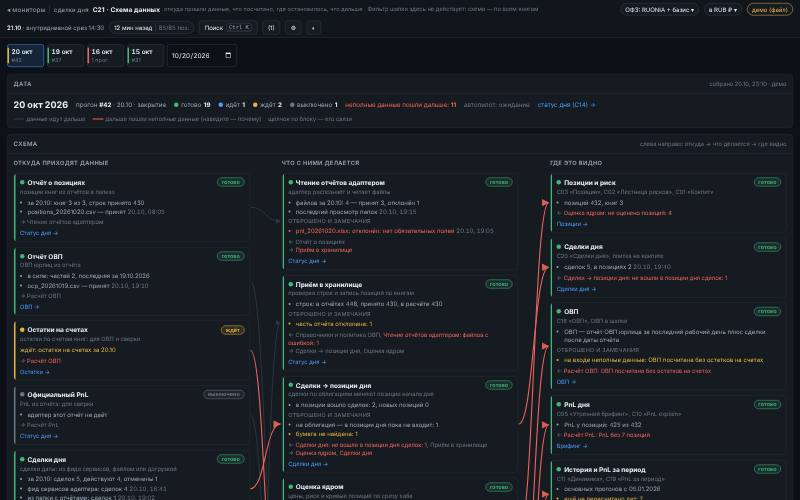
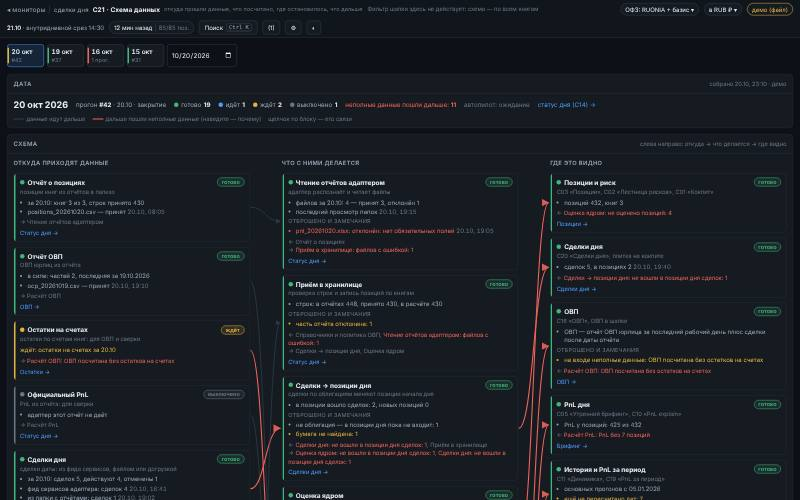
C21: browser tests, an incomplete outgoing link said in words, refresh once a minute (TDM#586)
- tests/js/data_flow_586.pw.test.js (Playwright, synthetic answers): C21 blocks and statuses in words,
  one red arrow per incomplete link, «Где данные неполные», «Что впереди», both themes at 1024 and
  1440 px, one column without arrows and without a horizontal scroll at 390 px; C20 under the header
  filter and ?pos=, source and receipt time; the C01 line asks the summary with the page's date and the
  header's books and links to C20.
- C21: an outgoing link that carried incomplete data says why in the block (read on a narrow window
  without arrows); the screen refreshes once a minute, not every 30 s (it reads the history of runs).

Claude-Session: https://claude.ai/code/session_01UuVXzboUww8niJjd1qoHTu

diff --git a/tests/js/data_flow_586.pw.test.js b/tests/js/data_flow_586.pw.test.js
@@ -1,0 +1,150 @@
+// C21 «Схема данных» (TDM#586) и C20 «Сделки дня» под фильтром шапки (TDM#585) в браузере (Playwright; без него тесты
+// пропускаются): прогон из tests/js/fixtures/concepts_run.js, ответы /api/v1/dataflow, /api/v1/inbox/days, /api/v1/trades и
+// /api/v1/trades/summary — синтетические. C21: блоки трёх столбцов со статусами словами, красная стрелка на каждую
+// неполную связь, «Где данные неполные», «Что впереди»; обе темы; 1024 px — схема со стрелками, 390 px — один столбец без
+// горизонтальной прокрутки. C20: фильтр шапки скрывает сделки других книг, у сделки — источник и время получения.
+// C01: строка сделок дня по книгам шапки со ссылкой на C20.
+//   node --test tests/js/data_flow_586.pw.test.js
+'use strict';
+const test = require('node:test'), assert = require('node:assert/strict'), fs = require('node:fs'), path = require('node:path');
+const pw = (() => { try { return require('/opt/node22/lib/node_modules/playwright'); } catch (e) { try { return require('playwright'); } catch (e2) { return null; } } })();
+const { TEXT: RUN } = require('./fixtures/concepts_run');
+const ROOT = path.join(__dirname, '..', '..', 'prototypes'), ORIGIN = 'http://desk.test';
+const TYPES = { '.html': 'text/html', '.js': 'application/javascript', '.css': 'text/css', '.json': 'application/json', '.jpg': 'image/jpeg' };
+const BAD = /\bNaN\b|\bundefined\b|\bnull\b/;
+const AS_OF = JSON.parse(RUN).asOf;
+
+const L = (t, at, tone) => ({ t, at: at || null, tone: tone || null });
+const B = (id, column, title, status, extra) => Object.assign({ id, column, title, what: 'что делает ' + title, status, status_text: { ok: 'готово', running: 'идёт', waiting: 'ждёт', error: 'ошибка', off: 'выключено' }[status],
+  got: [L('получено ' + id, AS_OF + 'T10:00:00+00:00')], dropped: [], waits: null, progress: null, at: null, link: { href: 'c14-day-status.html', text: 'Статус дня' }, fix: null, fix_note: null }, extra || {});
+const FLOW = {
+  date: AS_OF, generated_at: AS_OF + 'T12:00:00+00:00', statuses: { ok: 'готово', running: 'идёт', waiting: 'ждёт', error: 'ошибка', off: 'выключено' },
+  columns: [{ id: 'source', title: 'Откуда приходят данные' }, { id: 'process', title: 'Что с ними делается' }, { id: 'result', title: 'Где это видно' }],
+  run: { run_id: 7, label: '13.10 · закрытие', is_default: true }, day_state: 'warn',
+  blocks: [
+    B('positions', 'source', 'Отчёт о позициях', 'ok', { fix: { href: '../settings.html#adapter/folders', text: 'Папки с отчётами' } }),
+    B('cash', 'source', 'Остатки на счетах', 'waiting', { waits: 'остатки на счетах за 13.10', got: [] }),
+    B('past_trades', 'source', 'Сделки прошлых дат', 'running', { progress: { done: 30, total: 120, text: 'дат обработано' } }),
+    B('pnl_official', 'source', 'Официальный PnL', 'off', { got: [L('адаптер этот отчёт не даёт')] }),
+    B('read', 'process', 'Чтение отчётов адаптером', 'error', { dropped: [L('файл.csv: отклонён', null, 'bad')] }),
+    B('ocp', 'process', 'Расчёт ОВП', 'ok', { dropped: [L('на входе неполные данные: ОВП посчитана без остатков на счетах', null, 'warn')] }),
+    B('backfill', 'process', 'Пересчёт прошлых дат', 'waiting', { waits: 'очередь: 3 дат', progress: { done: 7, total: 10, text: 'дат посчитано' } }),
+    B('r_ocp', 'result', 'ОВП', 'ok'), B('r_history', 'result', 'История и PnL за период', 'ok')],
+  edges: [{ from: 'positions', to: 'read', what: 'отчёты о позициях', incomplete: false, why: null },
+    { from: 'cash', to: 'ocp', what: 'остатки на счетах', incomplete: true, why: 'ОВП посчитана без остатков на счетах' },
+    { from: 'past_trades', to: 'backfill', what: 'сделки прошлых дат', incomplete: false, why: null },
+    { from: 'read', to: 'ocp', what: 'строки', incomplete: false, why: null },
+    { from: 'ocp', to: 'r_ocp', what: 'ОВП', incomplete: true, why: 'ОВП посчитана без остатков на счетах' },
+    { from: 'backfill', to: 'r_history', what: 'прогоны', incomplete: false, why: null }],
+  counts: { ok: 4, waiting: 2, running: 1, error: 1, off: 1 }, incomplete: 2,
+  ahead: [{ id: 'backfill', title: 'Пересчёт прошлых дат', text: 'осталось дат: 3', at: null, eta_s: 600, progress: { done: 7, total: 10, text: 'дат посчитано' } },
+    { id: 'wait:cash', title: 'Ждём: Остатки на счетах', text: 'остатки на счетах за 13.10', at: null, eta_s: null }],
+  autopilot: { state: 'idle', enabled: true, message: null },
+};
+const DAYS = { days: [{ date: AS_OF, state: 'warn', default_run_id: 7, runs: 1 }] };
+const row = (id, book, extra) => Object.assign({ trade_id: id, trade_version: 1, status: 'live', trade_date: AS_OF, trade_ts: AS_OF + 'T11:20:00', book_id: book, position_id: book + '|S1', asset_class: 'bond',
+  source_instrument_id: 'S1', source_instrument_name: 'Бумага ' + id, side: 'buy', quantity: 10, price_pct: 99.5, ccy: 'RUB', late: false, intraday: 'applied', pnl_rub: 1000, pnl_flag: null,
+  origin: 'feed', received_at: AS_OF + 'T08:21:00+00:00', entity: 'Головной банк', desk: 'Rates', portfolio: null }, extra || {});
+const TRADES = {
+  date: AS_OF, book_id: null, rows: [row('TR-1', 'OFZ'), row('TR-2', 'RATES', { intraday: 'not_bond', asset_class: 'irs', pnl_rub: null, origin: 'file' }), row('TR-3', 'CORP_RUB', { desk: 'Credit', intraday: 'no_instrument', pnl_rub: null })],
+  books: [], summary: { trades: 3, live: 3, cancelled: 0, late: 0, books: 3, versions: 0 }, files: [], days: [{ date: AS_OF, trades: 3, cancelled: 0 }],
+  intraday: { run_id: 7, run_type: 'EOD', applied: 1, new_positions: 0, skipped: {} },
+};
+const SUMMARY = { date: AS_OF, books: null, run_id: 7, trades: 3, live: 3, cancelled: 0, applied: 1, problems: 1, last_trade_ts: AS_OF + 'T11:20:00',
+  states: [{ state: 'applied', text: 'в позициях', n: 1 }, { state: 'not_bond', text: 'не облигация — в позиции дня пока не входит', n: 1 }, { state: 'no_instrument', text: 'бумага не найдена', n: 1 }],
+  sources: [{ origin: 'feed', text: 'фид сервисов адаптера', trades: 2, last_at: AS_OF + 'T08:21:00+00:00' }], by_book: {}, top: [], state_text: {} };
+
+async function open(browser, page, { width = 1366, theme = 'dark', store = {}, ready = '#view .k-grid' } = {}) {
+  const ctx = await browser.newContext({ viewport: { width, height: 900 } }), pg = await ctx.newPage(), errors = [], calls = [];
+  await ctx.addInitScript(([t, st]) => { try { localStorage.clear(); localStorage.setItem('concepts-theme', t); Object.entries(st).forEach(([k, v]) => localStorage.setItem(k, v)); } catch (e) { } }, [theme, store]);
+  pg.on('pageerror', e => errors.push('pageerror: ' + e.message));
+  pg.on('console', m => { if (m.type() === 'error' && !/Failed to load resource/.test(m.text())) errors.push('console: ' + m.text()); });
+  await pg.route('**/*', async route => {
+    const u = new URL(route.request().url()), json = o => route.fulfill({ status: 200, contentType: 'application/json', body: JSON.stringify(o) });
+    if (u.origin !== ORIGIN) return route.abort();
+    if (u.pathname.startsWith('/api/')) calls.push(u.pathname + u.search);
+    if (u.pathname === '/concepts-run.js') return route.fulfill({ status: 200, contentType: 'application/javascript', body: 'window.CONCEPTS_RUN = ' + RUN + ';' });
+    if (u.pathname === '/concepts-data.js') return route.fulfill({ status: 200, contentType: 'application/javascript', body: 'window.DESK_EXTRAS = { notes: [] };' });
+    if (u.pathname === '/api/v1/auth/state') return json({ enabled: false, user: null });
+    if (u.pathname === '/api/v1/dataflow') return json(FLOW);
+    if (u.pathname === '/api/v1/inbox/days') return json(DAYS);
+    if (u.pathname === '/api/v1/trades') return json(TRADES);
+    if (u.pathname === '/api/v1/trades/summary') return json(SUMMARY);
+    if (u.pathname.startsWith('/api/')) return route.fulfill({ status: 404, contentType: 'application/json', body: '{"detail":"нет в тесте"}' });
+    const f = path.join(ROOT, decodeURIComponent(u.pathname));
+    if (!f.startsWith(ROOT) || !fs.existsSync(f) || fs.statSync(f).isDirectory()) return route.fulfill({ status: 404, body: '' });
+    return route.fulfill({ status: 200, contentType: TYPES[path.extname(f)] || 'application/octet-stream', body: fs.readFileSync(f) });
+  });
+  await pg.goto(ORIGIN + '/concepts/' + page);
+  await pg.waitForSelector(ready);
+  await pg.waitForTimeout(400);
+  return { pg, ctx, errors, calls };
+}
+
+test('C21: blocks with statuses in words, red arrows where incomplete data went on, both themes, 1024 and 390 px', { skip: pw ? false : 'нет Playwright', timeout: 120000 }, async () => {
+  const browser = await pw.chromium.launch();
+  try {
+    for (const theme of ['dark', 'light']) for (const width of [1024, 1440]) {
+      const { pg, ctx, errors, calls } = await open(browser, 'c21-data-flow.html', { width, theme });
+      assert.ok(calls.includes('/api/v1/dataflow'), calls.join());
+      assert.ok(!calls.some(c => /hub|adapter-services|history/.test(c)), 'экран не спрашивает хаб и сервисы: ' + calls.join());
+      const text = await pg.locator('#view').textContent();
+      assert.ok(!BAD.test(text), text);
+      for (const w of ['готово', 'идёт', 'ждёт', 'ошибка', 'выключено', 'Где данные неполные', 'Что впереди', 'осталось ≈ 10 мин']) assert.ok(text.includes(w), w);
+      assert.equal(await pg.locator('.c21-b').count(), FLOW.blocks.length);
+      assert.equal(await pg.locator('.c21-col').count(), 3);
+      // стрелки — между столбцами, красные — неполные; блоки трёх столбцов стоят рядом
+      assert.equal(await pg.locator('.c21-svg path[data-from]').count(), 5);
+      assert.equal(await pg.locator('.c21-svg path.bad').count(), 2);
+      const cols = await pg.$$eval('.c21-col', l => l.map(c => Math.round(c.getBoundingClientRect().left)));
+      assert.ok(cols[0] < cols[1] && cols[1] < cols[2], cols.join());
+      assert.equal(await pg.locator('#b-positions a[href="../settings.html#adapter/folders"]').count(), 1, 'настройка блока');
+      assert.equal(await pg.locator('#b-cash .wait').innerText(), 'ждёт: остатки на счетах за 13.10');
+      assert.ok((await pg.locator('#b-past_trades .c21-prog .t').innerText()).startsWith('30 из 120'));
+      // наведение на блок подсвечивает его связи
+      await pg.hover('#b-ocp');
+      assert.equal(await pg.locator('.c21-svg path.hl').count(), 2);
+      assert.equal(await pg.evaluate(() => document.documentElement.scrollWidth <= innerWidth), true);
+      assert.deepEqual(errors, []);
+      await ctx.close();
+    }
+    const { pg, ctx, errors } = await open(browser, 'c21-data-flow.html', { width: 390 });
+    assert.equal(await pg.evaluate(() => document.documentElement.scrollWidth <= innerWidth), true, 'без горизонтальной прокрутки');
+    assert.equal(await pg.evaluate(() => getComputedStyle(document.querySelector('.c21-svg')).display), 'none');
+    const lefts = await pg.$$eval('.c21-col', l => l.map(c => Math.round(c.getBoundingClientRect().left)));
+    assert.ok(lefts.every(x => x === lefts[0]), 'столбцы — один под другим: ' + lefts.join());
+    assert.ok((await pg.locator('#b-cash .io').innerText()).includes('ОВП посчитана без остатков на счетах'), 'неполная связь — словами в блоке');
+    assert.deepEqual(errors, []);
+    await ctx.close();
+  } finally { await browser.close(); }
+});
+
+test('C20 follows the header filter, shows the source and receipt time; C01 shows the day trades line', { skip: pw ? false : 'нет Playwright', timeout: 120000 }, async () => {
+  const browser = await pw.chromium.launch();
+  try {
+    let r = await open(browser, 'c20-trades.html');
+    const ids = () => r.pg.$$eval('table[data-vk="c20-trades"] tbody tr td.mono', l => l.map(x => x.textContent));
+    assert.deepEqual(await ids(), ['TR-1', 'TR-2', 'TR-3']);
+    const text = await r.pg.locator('#view').textContent();
+    assert.ok(text.includes('фид сервисов адаптера') && text.includes('из папки с отчётами') && text.includes('Не в позициях — почему'), text);
+    assert.ok(text.includes('бумага не найдена') && text.includes('не облигация'));
+    assert.equal(await r.pg.locator('.k-top .filters [data-nofilter]').count(), 0, 'чипы шапки, а не «фильтр здесь не действует»');
+    assert.deepEqual(r.errors, []);
+    await r.ctx.close();
+    r = await open(browser, 'c20-trades.html', { store: { 'concepts-filter': JSON.stringify({ books: ['OFZ', 'CORP_RUB'] }) } });
+    assert.deepEqual(await ids(), ['TR-1', 'TR-3']);
+    assert.ok((await r.pg.locator('#view').innerText()).includes('под фильтром шапки: 2 из 3'));
+    await r.ctx.close();
+    r = await open(browser, 'c20-trades.html?pos=OFZ%7CS1');
+    assert.deepEqual(await ids(), ['TR-1']);
+    await r.ctx.close();
+    r = await open(browser, 'c01-cockpit.html', { ready: '#trades .k-dt b', store: { 'concepts-filter': JSON.stringify({ books: ['OFZ'] }) } });
+    const sum = r.calls.find(c => c.startsWith('/api/v1/trades/summary'));
+    assert.ok(sum && /books=OFZ/.test(sum) && new RegExp('date=' + AS_OF).test(sum), sum);
+    const line = await r.pg.locator('#trades').innerText();
+    assert.ok(line.includes('Сделки дня: 3, в позициях 1, последняя в 11:20'), line);
+    assert.equal(await r.pg.locator('#trades a[href^="c20-trades.html?date=' + AS_OF + '"]').count(), 1);
+    assert.deepEqual(r.errors, []);
+    await r.ctx.close();
+  } finally { await browser.close(); }
+});

diff --git a/prototypes/concepts/c21-data-flow.html b/prototypes/concepts/c21-data-flow.html
@@ -89,7 +89,7 @@
   // чего ждёт, прогресс фоновой работы, ссылка на экран с подробностями и на настройку. Красная стрелка — дальше пошли
   // неполные данные. Внизу — «Что впереди»: очередь фоновых работ. Данные — один маршрут GET ../api/v1/dataflow?on=
   // (backend desk/dataflow.py): то, что монитор уже знает; хаб и сервисы при открытии не опрашиваются. Полоса дат —
-  // ../api/v1/inbox/days (как C14). Обновляется раз в 30 с, пока вкладка открыта.
+  // ../api/v1/inbox/days (как C14). Обновляется раз в минуту, пока вкладка открыта.
   const K = KIT, f = K.f, esc = K.esc;
   K.top({ title: 'C21 · Схема данных', tag: 'откуда пришли данные, что посчитано, где остановилось, что дальше', filter: false, filterNote: 'схема — по всем книгам' });
   const server = K.source === 'real' || K.source === 'empty';
@@ -144,7 +144,7 @@
     const ins = doc.edges.filter(e => e.to === b.id), outs = doc.edges.filter(e => e.from === b.id);
     const name = id => esc((by[id] || {}).title || id);
     const io = (ins.length ? '← ' + ins.map(e => e.incomplete ? '<span class="bad" title="' + esc(e.why) + '">' + name(e.from) + ': ' + esc(e.why) + '</span>' : '<span title="' + esc(e.what) + '">' + name(e.from) + '</span>').join(', ') : '') +
-      (ins.length && outs.length ? '<br>' : '') + (outs.length ? '→ ' + outs.map(e => '<span' + (e.incomplete ? ' class="bad"' : '') + ' title="' + esc(e.what + (e.why ? ': ' + e.why : '')) + '">' + name(e.to) + '</span>').join(', ') : '');
+      (ins.length && outs.length ? '<br>' : '') + (outs.length ? '→ ' + outs.map(e => '<span' + (e.incomplete ? ' class="bad"' : '') + ' title="' + esc(e.what + (e.why ? ': ' + e.why : '')) + '">' + name(e.to) + (e.incomplete ? ': ' + esc(e.why) : '') + '</span>').join(', ') : '');
     return '<div class="c21-b st-' + esc(b.status) + '" id="b-' + esc(b.id) + '" data-b="' + esc(b.id) + '" tabindex="0">' +
       '<div class="hd"><span class="dot" aria-hidden="true"></span><b>' + esc(b.title) + '</b><span class="sp"></span><span class="c21-badge">' + esc(b.status_text || b.status) + '</span></div>' +
       '<div class="what">' + esc(b.what) + (b.at ? ' · ' + esc(K.mskTime(b.at, true)) : '') + '</div>' + prog(b.progress) +
@@ -192,7 +192,7 @@
     const wrap = K.h('div', 'k-grid');
     const cnt = Object.keys(S).filter(k => (d.counts || {})[k]).map(k => '<span class="c21-cnt st-' + k + '"><i></i>' + esc(S[k]) + ' <b>' + d.counts[k] + '</b></span>').join('');
     const ap = d.autopilot || {};
-    const hd = panel('Дата', '<span class="k-note">' + (d.generated_at ? 'собрано ' + esc(K.mskTime(d.generated_at, true)) + ' · ' : '') + (server ? 'обновляется раз в 30 с' : 'демо') + '</span>');
+    const hd = panel('Дата', '<span class="k-note">' + (d.generated_at ? 'собрано ' + esc(K.mskTime(d.generated_at, true)) + ' · ' : '') + (server ? 'обновляется раз в минуту' : 'демо') + '</span>');
     hd.querySelector('.bd').innerHTML = '<div class="c21-head"><span class="big">' + f.dshort(d.date) + ' ' + esc(d.date.slice(0, 4)) + '</span>' +
       '<span>' + (d.run ? 'прогон <b>#' + d.run.run_id + '</b> · ' + esc(d.run.label) + (d.run.is_default ? '' : ' (основного ещё нет)') : 'прогона за дату нет') + '</span>' + cnt +
       (d.incomplete ? '<span style="color:var(--neg)">неполные данные пошли дальше: <b style="color:var(--neg)">' + d.incomplete + '</b></span>' : '<span class="mut3">неполных данных дальше не ушло</span>') +
@@ -235,7 +235,7 @@
   if (document.fonts && document.fonts.ready) document.fonts.ready.then(() => requestAnimationFrame(drawEdges));
   K.on('theme', () => requestAnimationFrame(drawEdges));
   K.on('numfmt', () => { if (doc && view.querySelector('.c21-flow')) render(); });
-  if (server) setInterval(() => { if (!document.hidden && doc) load(); }, 30000);
+  if (server) setInterval(() => { if (!document.hidden && doc) load(); }, 60000);
 
   // ---------- демо-набор (файл или ?demo=1): вымышленный, форма ответа /api/v1/dataflow ----------
   const DEMO_DAYS = [['2026-10-20', 'warn', 42], ['2026-10-19', 'ok', 37], ['2026-10-16', 'bad', null], ['2026-10-15', 'ok', 31]].map(([date, state, r]) => ({ date, state, default_run_id: r, runs: r ? 2 : 1 }));

diff --git a/CHANGELOG.md b/CHANGELOG.md
@@ -41,7 +41,7 @@
   когда, что отброшено и почему, чего ждёт, прогресс фоновой работы и ссылки на экран с подробностями и на настройку.
   Красная стрелка — дальше пошли неполные данные, её причина — в подсказке и в списке «Где данные неполные». Внизу —
   «Что впереди»: очередь фоновых работ и оставшееся время, где оно известно. Экран не опрашивает хаб и сервисы: он
-  собирает то, что монитор уже знает, и обновляется раз в 30 секунд.
+  собирает то, что монитор уже знает, и обновляется раз в минуту.
 
 ## 0.2.19
 
